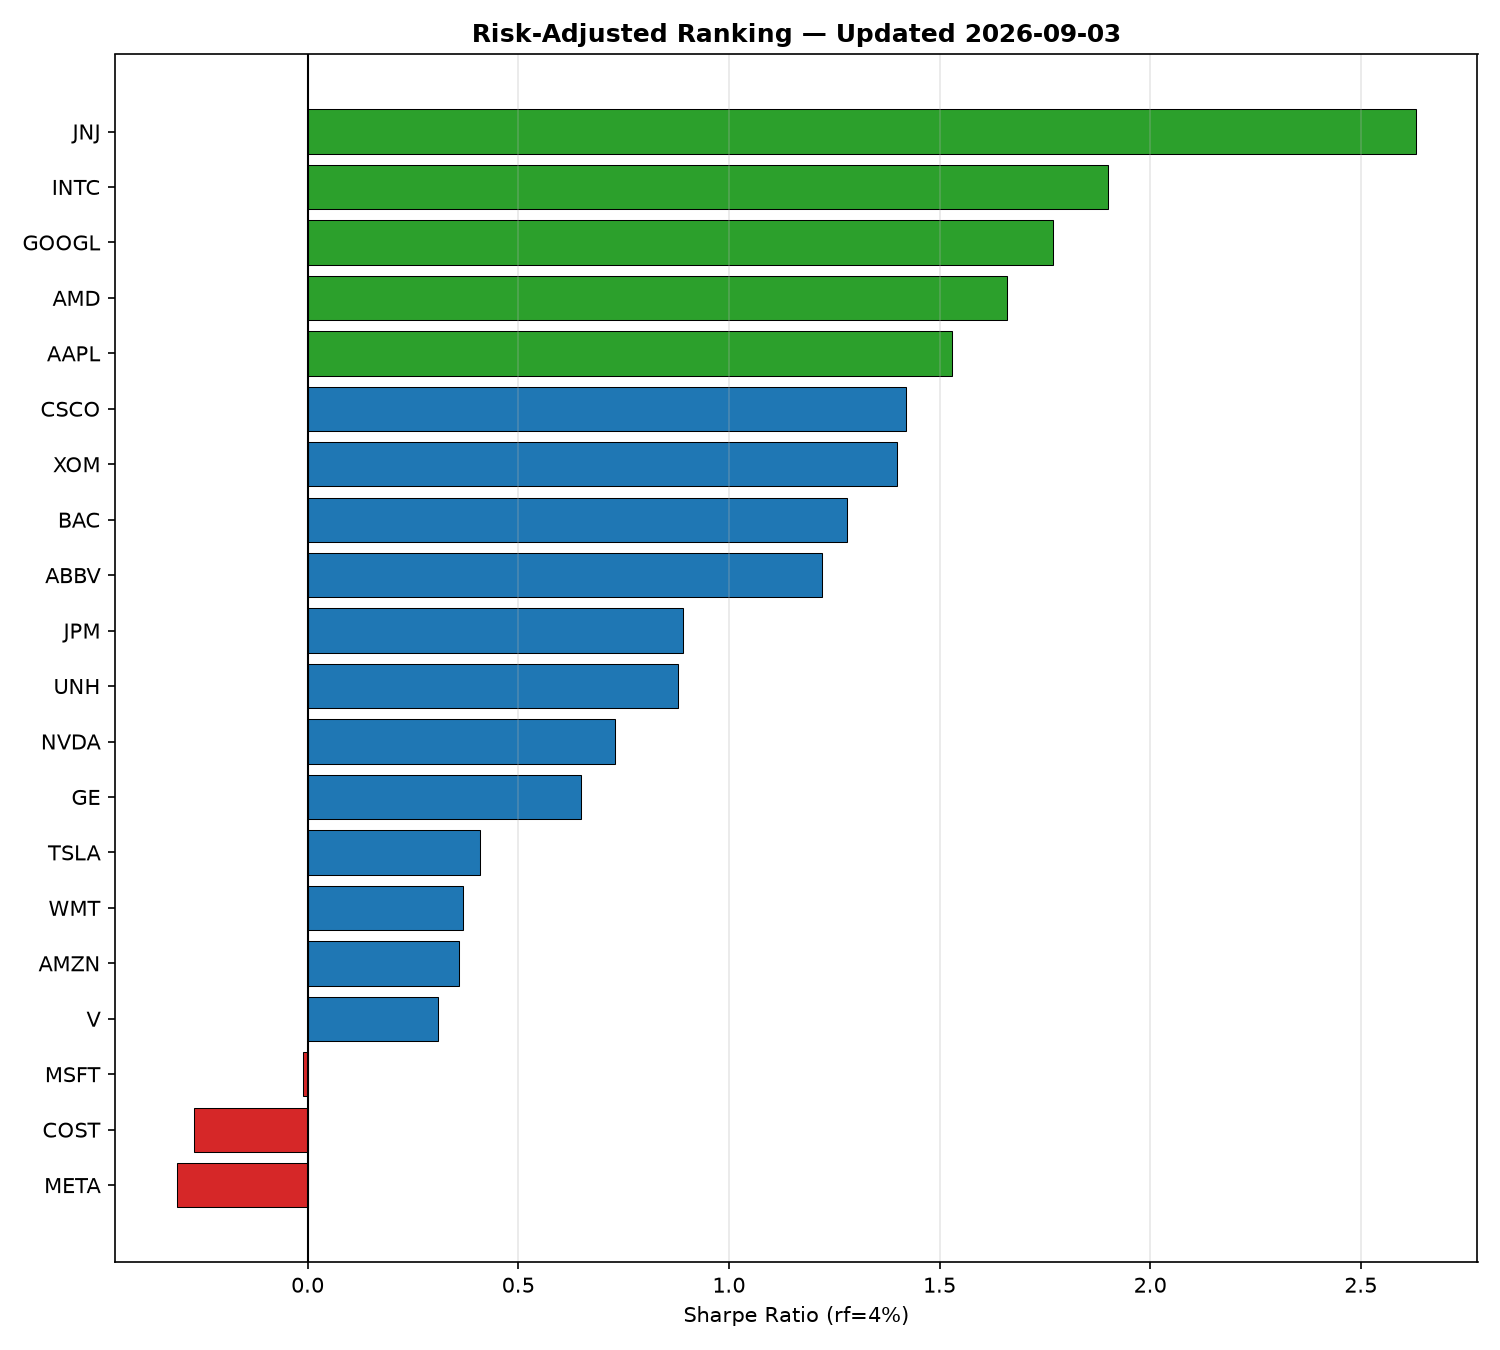
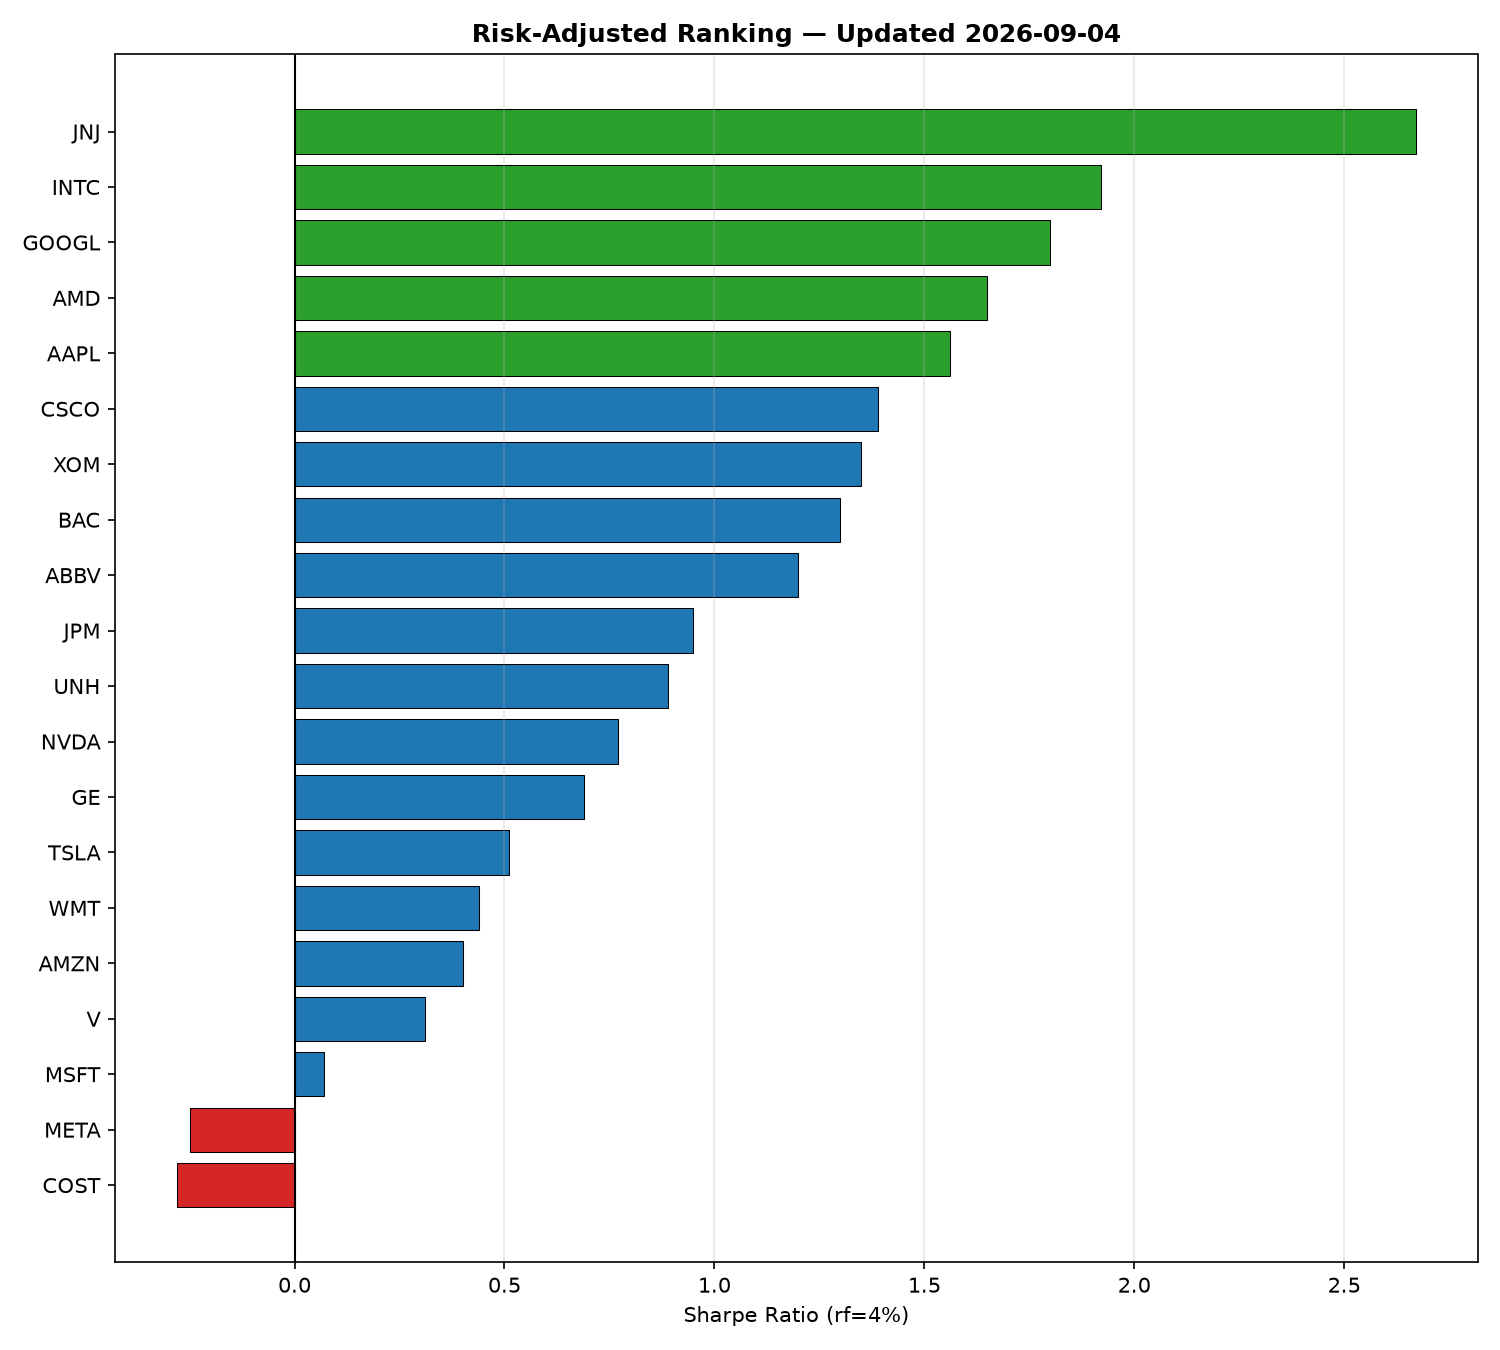
Automated daily update: prices, metrics, and charts

diff --git a/SNAPSHOT.md b/SNAPSHOT.md
@@ -1,8 +1,8 @@
-# Daily Risk Snapshot — 2026-09-02
+# Daily Risk Snapshot — 2026-09-03
 
-**Best mover:** NVDA (+3.21%)
-**Worst mover:** COST (-1.22%)
-**Top risk-adjusted performer (trailing window):** JNJ (Sharpe 2.63)
+**Best mover:** TSLA (+5.42%)
+**Worst mover:** XOM (-1.18%)
+**Top risk-adjusted performer (trailing window):** JNJ (Sharpe 2.67)
 
 **No new anomaly flags today.**
 
